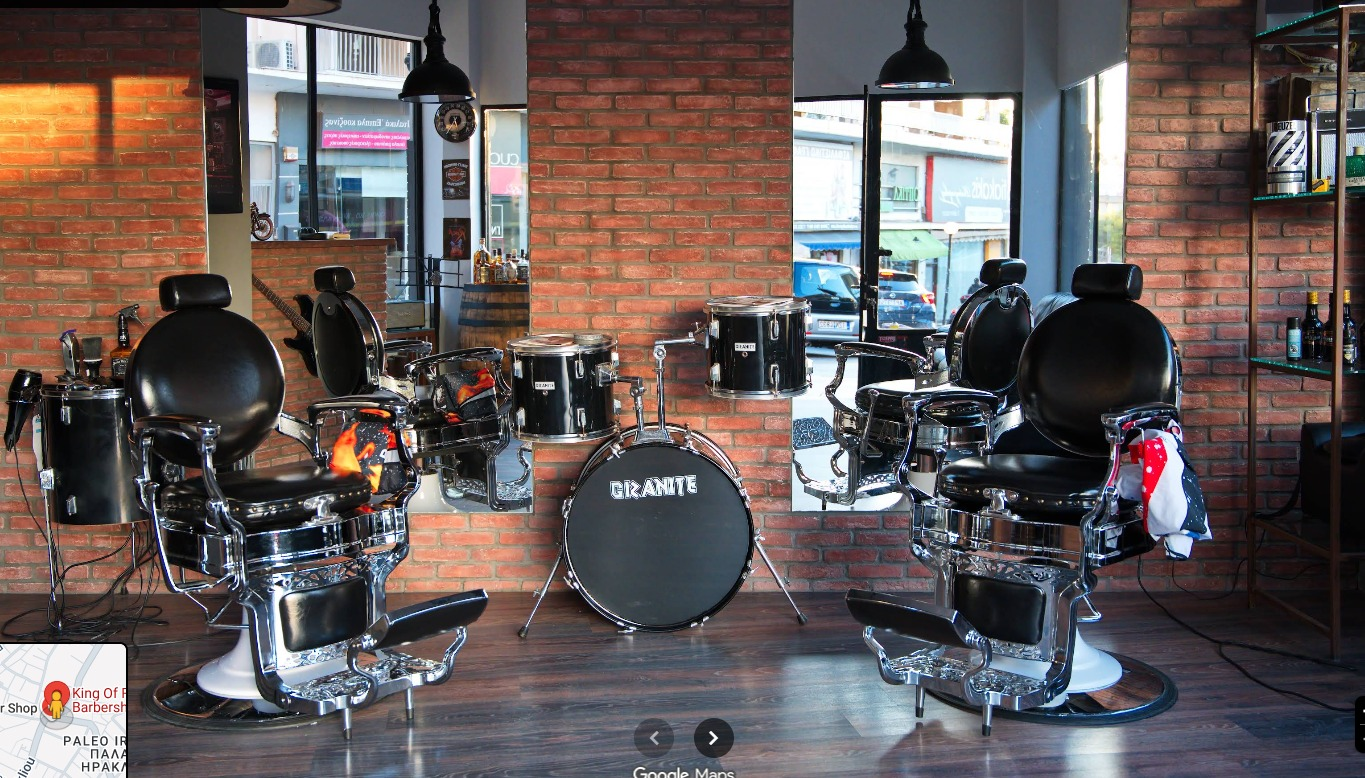
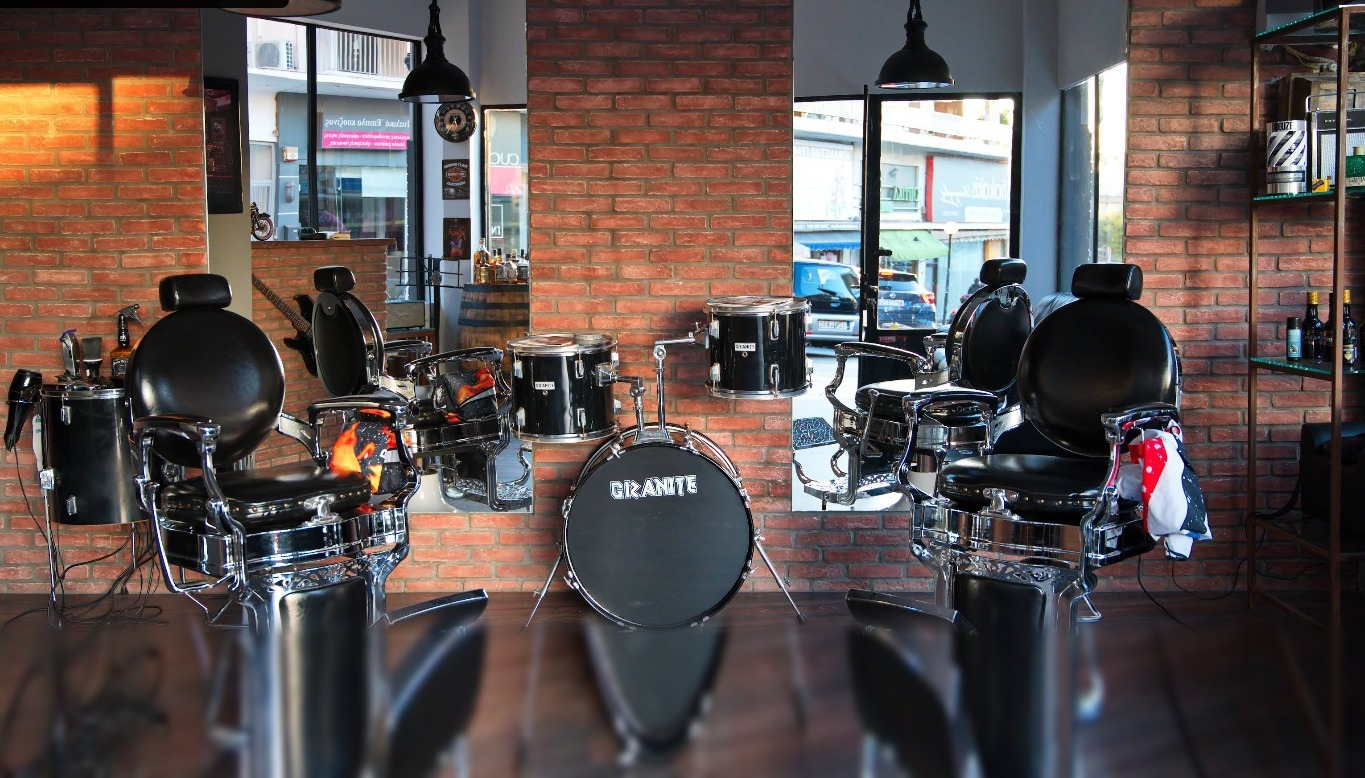
Polish hero/nav visuals and refresh section styling
- Fix stray opaque artifact baked into emblem.png (was showing as a white box in the Hero)
- Remove the top orange marquee ticker between Hero and About
- Restyle nav booking button to outline (barber-pole animation now Hero-only)
- Add script-style section titles (Barbers, Gallery, Services) with EB Garamond
- Swap dev port back to 8080, minor asset/image tweaks

Changed region(s): [[0.0, 0.7712, 1.0, 1.0]]

diff --git a/src/styles.css b/src/styles.css
@@ -18,6 +18,7 @@
   --radius-2xl: calc(var(--radius) + 8px);
   --font-display: "Anton", "Oswald", system-ui, sans-serif;
   --font-sans: "Barlow", system-ui, sans-serif;
+  --font-script: "EB Garamond", serif;
   --color-background: var(--background);
   --color-foreground: var(--foreground);
   --color-card: var(--card);
@@ -175,6 +176,69 @@
   .btn-hero:hover {
     transform: translateY(-2px) scale(1.02);
     box-shadow: 0 10px 32px oklch(0.63 0.126 48 / 0.4);
+  }
+  /* Animated barber-pole stripes for the primary "Κλείσε Ραντεβού" CTA.
+     The gradient is drawn un-rotated ("to right") on an oversized, centered
+     ::before and the diagonal look + motion both come from `transform`
+     (rotate + translateX), never from `background-position` — animating
+     background-position repaints every frame off the main thread and reads
+     as janky; transform is GPU-composited, so the loop stays smooth. The
+     translateX distance (48px) equals exactly one gradient cycle *in the
+     pseudo-element's own pre-rotation space*, so the loop has no seam to
+     round — it's exact by construction, not by decimal approximation.
+     A static ::after scrim sits between the stripes and the label for text
+     contrast. Pseudo-element order is fixed (::before, then real children,
+     then ::after) — left to default stacking that puts ::after *in front of*
+     the label, not behind it, so all three layers carry explicit z-index to
+     force stripes → scrim → label regardless of source order. */
+  .btn-hero.btn-pole {
+    position: relative;
+    overflow: hidden;
+    color: var(--color-foreground);
+  }
+  .btn-hero.btn-pole::before {
+    content: "";
+    position: absolute;
+    z-index: 1;
+    top: 50%;
+    left: 50%;
+    width: 600px;
+    height: 600px;
+    background-image: repeating-linear-gradient(
+      to right,
+      oklch(0.53 0.19 25) 0px,
+      oklch(0.53 0.19 25) 16px,
+      oklch(0.94 0.012 80) 16px,
+      oklch(0.94 0.012 80) 32px,
+      oklch(0.42 0.1 250) 32px,
+      oklch(0.42 0.1 250) 48px
+    );
+    animation: btn-pole-scroll 2.8s linear infinite;
+    will-change: transform;
+  }
+  .btn-hero.btn-pole::after {
+    content: "";
+    position: absolute;
+    z-index: 2;
+    inset: 0;
+    background: oklch(0.145 0.005 60 / 0.58);
+  }
+  .btn-hero.btn-pole > * {
+    position: relative;
+    z-index: 3;
+  }
+  @keyframes btn-pole-scroll {
+    from {
+      transform: translate(-50%, -50%) rotate(45deg) translateX(0);
+    }
+    to {
+      transform: translate(-50%, -50%) rotate(45deg) translateX(-48px);
+    }
+  }
+  @media (prefers-reduced-motion: reduce) {
+    .btn-hero.btn-pole::before {
+      animation: none;
+    }
   }
   .btn-outline {
     border: 1px solid var(--color-border);

diff --git a/src/components/Hero.tsx b/src/components/Hero.tsx
@@ -58,27 +58,18 @@ export function Hero() {
       />
 
       <div className="relative z-10 mx-auto max-w-4xl px-4 py-28 text-center">
-        <img
-          src={emblem}
-          alt=""
-          aria-hidden="true"
-          width={1085}
-          height={916}
-          className="cine-line mx-auto h-24 w-24 object-contain opacity-90 sm:h-28 sm:w-28"
-          style={{ animationDelay: "0.5s" }}
-        />
-        <h1
-          className="cine-line mt-6 font-display text-6xl leading-[0.9] sm:text-8xl lg:text-9xl"
-          style={{ animationDelay: "0.7s" }}
-        >
-          King Of Rock
-        </h1>
-        <p
-          className="cine-line mt-4 text-xs tracking-[0.7em] text-primary sm:text-base"
-          style={{ animationDelay: "0.9s" }}
-        >
-          BARBERSHOP
-        </p>
+        <div className="relative min-h-80 sm:min-h-[30rem] lg:min-h-[36rem]">
+          <img
+            src={emblem}
+            alt=""
+            aria-hidden="true"
+            width={1085}
+            height={916}
+            className="cine-line pointer-events-none absolute inset-0 m-auto h-80 w-auto object-contain opacity-55 sm:h-[30rem] lg:h-[36rem]"
+            style={{ animationDelay: "0.5s" }}
+          />
+          <h1 className="sr-only">King Of Rock Barbershop</h1>
+        </div>
         <p
           className="cine-line mx-auto mt-7 max-w-xl text-lg text-muted-foreground"
           style={{ animationDelay: "1.05s" }}
@@ -90,8 +81,8 @@ export function Hero() {
           className="cine-line mt-9 flex flex-col items-center justify-center gap-3 sm:flex-row"
           style={{ animationDelay: "1.2s" }}
         >
-          <a href="#booking" className="btn-base btn-hero w-full sm:w-auto">
-            {upperEl("Κλείσε Ραντεβού")}
+          <a href="#booking" className="btn-base btn-hero btn-pole w-full sm:w-auto">
+            <span>{upperEl("Κλείσε Ραντεβού")}</span>
           </a>
           <a href="#services" className="btn-base btn-outline w-full sm:w-auto">
             {upperEl("Δες τις Υπηρεσίες")}

diff --git a/src/components/Reveal.tsx b/src/components/Reveal.tsx
@@ -51,15 +51,26 @@ export function SectionHeading({
   eyebrow,
   title,
   subtitle,
+  titleVariant = "display",
 }: {
   eyebrow: string;
   title: string;
   subtitle?: string;
+  /** "script" renders the title in its natural case with the EB Garamond italic accent face — an italic serif keeps its shape (and its Greek glyphs) where a Latin-only cursive font would lose both in all-caps. */
+  titleVariant?: "display" | "script";
 }) {
   return (
     <Reveal className="mx-auto max-w-2xl text-center">
       <p className="eyebrow">{upperEl(eyebrow)}</p>
-      <h2 className="mt-3 text-4xl leading-[1.05] sm:text-5xl">{upperEl(title)}</h2>
+      <h2
+        className={
+          titleVariant === "script"
+            ? "mt-3 font-script italic font-medium normal-case text-5xl leading-[1.05] text-primary sm:text-6xl"
+            : "mt-3 text-4xl leading-[1.05] sm:text-5xl"
+        }
+      >
+        {titleVariant === "script" ? title : upperEl(title)}
+      </h2>
       <div className="diamond-divider mt-5">
         <span className="diamond-mark" />
       </div>

diff --git a/src/routes/index.tsx b/src/routes/index.tsx
@@ -58,15 +58,6 @@ function Index() {
       <SiteHeader />
       <main>
         <Hero />
-        <Marquee
-          items={[
-            "King Of Rock",
-            "Κουρείο • Νέο Ηράκλειο",
-            "Rock 'n' Roll",
-            "Κλείσε Ραντεβού",
-            "Est. στο Νέο Ηράκλειο",
-          ]}
-        />
         <About />
         <Services />
         <Barbers />
@@ -90,9 +81,9 @@ function Index() {
       {/* Sticky mobile CTA */}
       <a
         href="#booking"
-        className="btn-base btn-hero fixed inset-x-4 bottom-4 z-40 shadow-lg lg:hidden"
+        className="btn-base btn-hero btn-pole fixed inset-x-4 bottom-4 z-40 shadow-lg lg:hidden"
       >
-        {upperEl("Κλείσε Ραντεβού")}
+        <span>{upperEl("Κλείσε Ραντεβού")}</span>
       </a>
     </div>
   );

diff --git a/src/components/SiteHeader.tsx b/src/components/SiteHeader.tsx
@@ -65,8 +65,8 @@ export function SiteHeader() {
               {upperEl(item.label)}
             </a>
           ))}
-          <a href="#booking" className="btn-base btn-hero px-5 py-2.5 text-sm">
-            {upperEl("Κλείσε Ραντεβού")}
+          <a href="#booking" className="btn-base btn-outline px-5 py-2.5 text-sm">
+            <span>{upperEl("Κλείσε Ραντεβού")}</span>
           </a>
         </nav>
 
@@ -104,7 +104,7 @@ export function SiteHeader() {
             onClick={() => setOpen(false)}
             className="btn-base btn-hero mt-6"
           >
-            {upperEl("Κλείσε Ραντεβού")}
+            <span>{upperEl("Κλείσε Ραντεβού")}</span>
           </a>
           <a
             href="tel:+300000000000"

diff --git a/src/components/Services.tsx b/src/components/Services.tsx
@@ -13,6 +13,7 @@ export function Services() {
         <SectionHeading
           eyebrow="Τιμοκατάλογος"
           title="Υπηρεσίες"
+          titleVariant="script"
           subtitle="Καθαρές τιμές, χωρίς αστερίσκους. Πληρωμή σε μετρητά ή κάρτα."
         />
 
@@ -43,8 +44,8 @@ export function Services() {
         </ul>
 
         <Reveal className="mt-12 text-center">
-          <a href="#booking" className="btn-base btn-hero">
-            {upperEl("Κλείσε Ραντεβού")}
+          <a href="#booking" className="btn-base btn-hero btn-pole">
+            <span>{upperEl("Κλείσε Ραντεβού")}</span>
           </a>
         </Reveal>
       </div>

diff --git a/src/routes/__root.tsx b/src/routes/__root.tsx
@@ -101,7 +101,7 @@ export const Route = createRootRouteWithContext<{ queryClient: QueryClient }>()(
       { rel: "preconnect", href: "https://fonts.gstatic.com", crossOrigin: "anonymous" },
       {
         rel: "stylesheet",
-        href: "https://fonts.googleapis.com/css2?family=Anton&family=Barlow:wght@300;400;500;600;700&display=swap",
+        href: "https://fonts.googleapis.com/css2?family=Anton&family=Barlow:wght@300;400;500;600;700&family=EB+Garamond:ital,wght@1,500&display=swap",
       },
       { rel: "icon", type: "image/png", href: "/favicon.png" },
     ],

diff --git a/src/components/Barbers.tsx b/src/components/Barbers.tsx
@@ -37,6 +37,7 @@ export function Barbers() {
         <SectionHeading
           eyebrow="Η Ομάδα"
           title="Οι Barbers"
+          titleVariant="script"
           subtitle="Πραγματικοί τεχνίτες, όχι γραμμή παραγωγής."
         />
 

diff --git a/src/components/Gallery.tsx b/src/components/Gallery.tsx
@@ -45,6 +45,7 @@ export function Gallery() {
         <SectionHeading
           eyebrow="Behind the Chair"
           title="Gallery"
+          titleVariant="script"
           subtitle="Το μαγαζί, τα εργαλεία και η δουλειά μας."
         />
 
